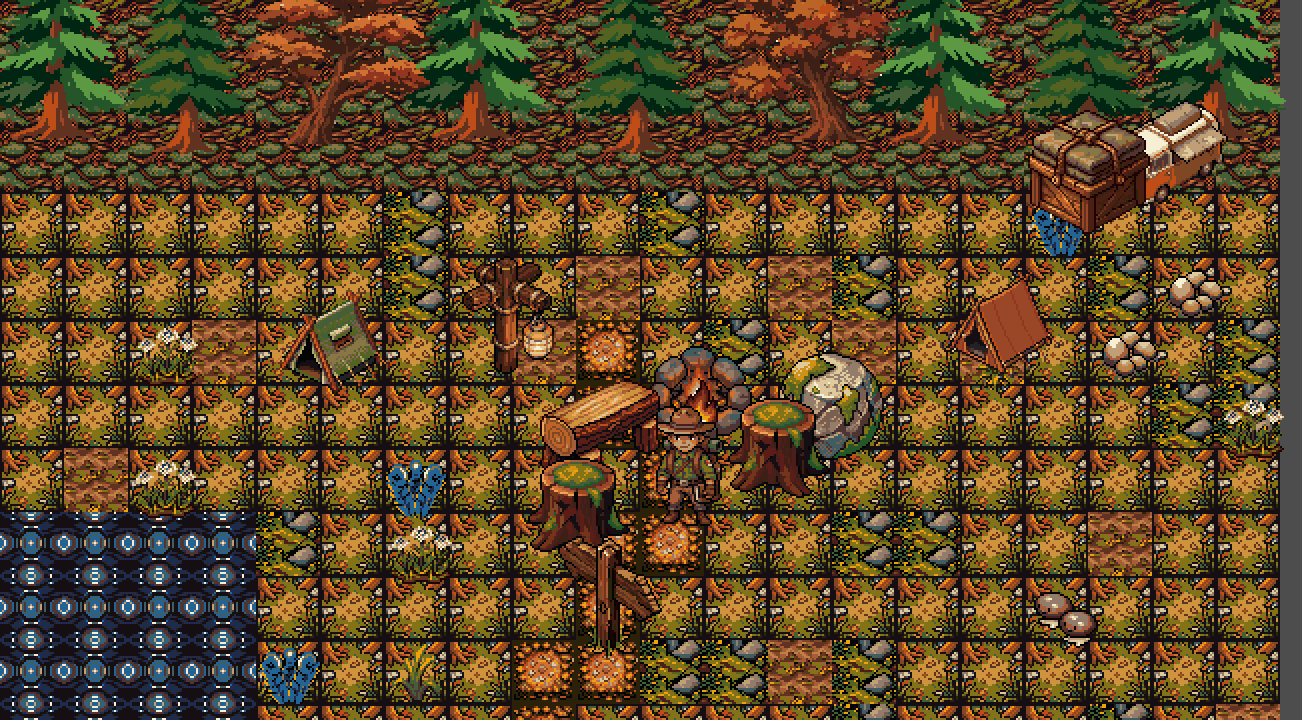
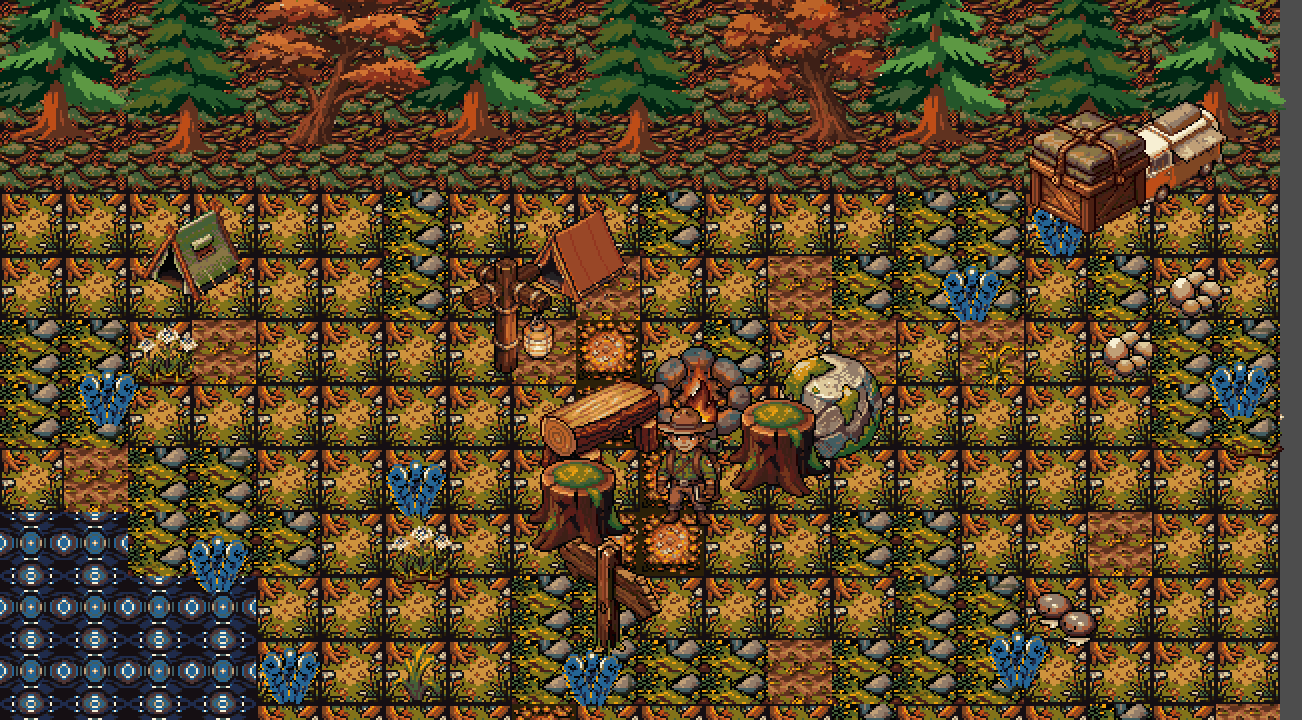
Pad system: layout data + markers + scene layer
layouts/pinewatch.json: 8 authored pad spots in the 10x4 camp core
(origin y=96), 2-3 hand-authored neighbours, p1/p2 open, errand +
lookout + crew plot positions. tools/make_pad_marker.py synthesizes
corner-bracket markers locally (open/hover/locked) — no API spend.
pinewatch_test.gd: pads layer with locked pads drawn as overgrowth,
tents snapped to pad cells, hover highlight on empty open pads.

diff --git a/tools/make_pad_marker.py b/tools/make_pad_marker.py
@@ -1,0 +1,59 @@
+#!/usr/bin/env python3
+"""Pad marker sprites — corner-bracket rings for camp pads (GDD §5.1:
+64x64 cells). Synthesized locally — no API spend for pure geometry.
+Writes pad_open.png / pad_hover.png / pad_locked_dot.png to
+game/assets/pinewatch/. Stdlib only (tools/png.py).
+"""
+import os, sys
+sys.path.insert(0, os.path.dirname(os.path.abspath(__file__)))
+import png as pngmod
+
+ROOT = os.path.dirname(os.path.dirname(os.path.abspath(__file__)))
+OUT = os.path.join(ROOT, "game", "assets", "pinewatch")
+S = 64
+
+def blank():
+    return [bytearray(S * 4) for _ in range(S)]
+
+def px(rows, x, y, rgba):
+    if 0 <= x < S and 0 <= y < S:
+        rows[y][x * 4:x * 4 + 4] = rgba
+
+def corner_brackets(color, arm=12, th=2, inset=4):
+    """L-brackets at each corner, inside a 64px cell."""
+    rows = blank()
+    r, g, b, a = color
+    for i in range(arm):
+        for t in range(th):
+            # top-left
+            px(rows, inset + i, inset + t, color)
+            px(rows, inset + t, inset + i, color)
+            # top-right
+            px(rows, S - 1 - inset - i, inset + t, color)
+            px(rows, S - 1 - inset - t, inset + i, color)
+            # bottom-left
+            px(rows, inset + i, S - 1 - inset - t, color)
+            px(rows, inset + t, S - 1 - inset - i, color)
+            # bottom-right
+            px(rows, S - 1 - inset - i, S - 1 - inset - t, color)
+            px(rows, S - 1 - inset - t, S - 1 - inset - i, color)
+    # dotted mid-edge ticks
+    for cx, cy in [(S//2, inset), (S//2, S-1-inset), (inset, S//2), (S-1-inset, S//2)]:
+        for t in range(th):
+            px(rows, cx + t - 1, cy, color)
+            px(rows, cx, cy + t - 1, color)
+    return rows
+
+def write(name, rows):
+    p = os.path.join(OUT, name)
+    pngmod.write(p, S, S, rows)
+    print("->", p)
+
+if __name__ == "__main__":
+    os.makedirs(OUT, exist_ok=True)
+    # open: moss-green brackets, readable but quiet on grass
+    write("pad_open.png", corner_brackets((60, 100, 50, 200)))
+    # hover/select: pale warm cream — reads as interactive
+    write("pad_hover.png", corner_brackets((240, 220, 150, 255)))
+    # locked: faint dark brackets under the overgrowth
+    write("pad_locked.png", corner_brackets((30, 45, 25, 120)))
